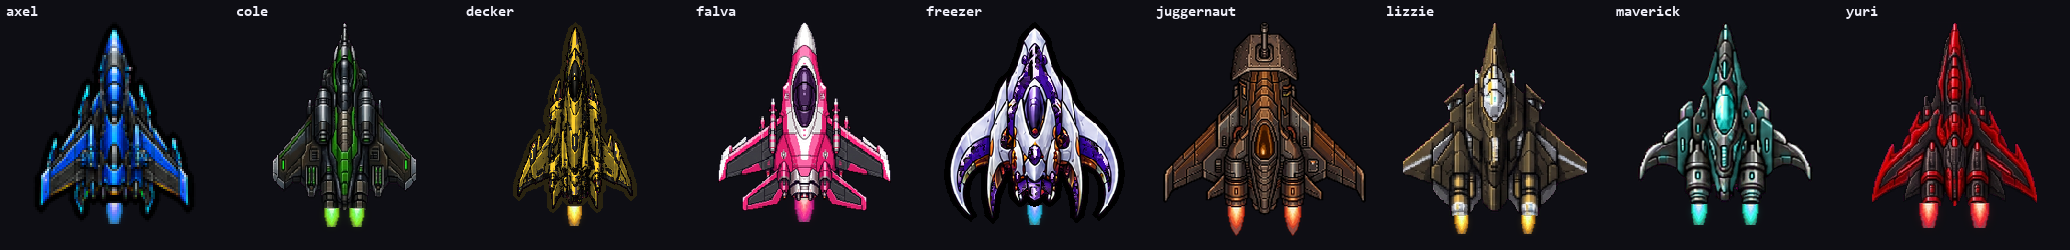
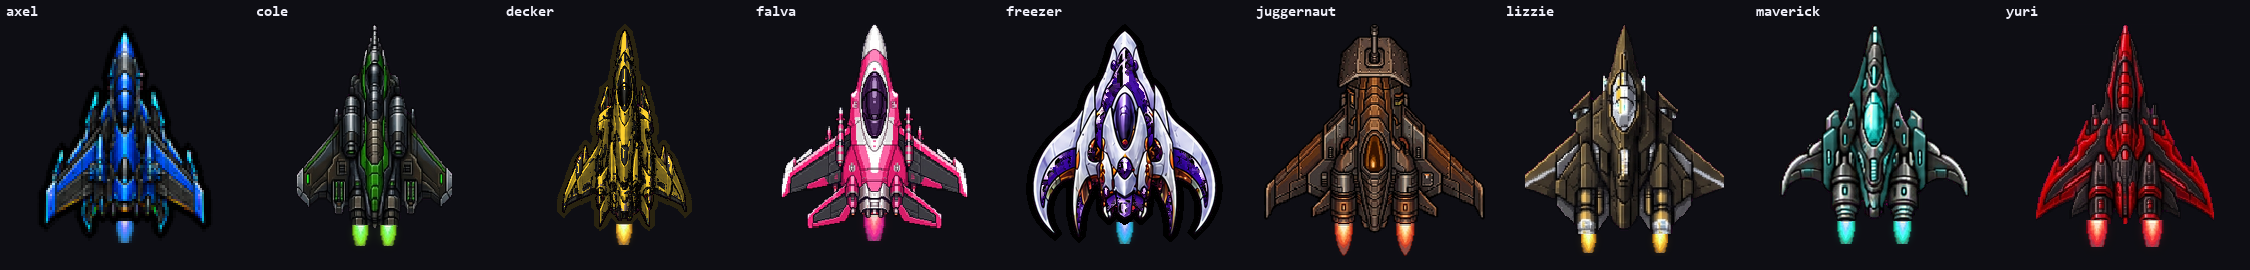
0906u: lizzie/yuri thruster nudge, and the purple spill one pixel inside the edge
Mike: "lizzie, move the left thruster to the left to get it centered a lil more, same with
the right. yuri - move the left to the right a little more, move the right to the left a
little more."

Checked before applying, because a fudge that hides a real bug is worth catching: the bell
BODIES measure at +/-0.185..0.194 for lizzie and +/-0.138..0.145 for yuri across three row
bands above the mouth — exactly where the flames already sat — and the flame template is
centred in its own box to within 0.24 px. So neither was a placement defect; he is judging
against the visible bell MOUTH rather than the housing, and the art is his. Stored as
MOUNT_NUDGE_PX in ink pixels, divided by each frame's own hull width so banked frames get
the same visual shift. lizzie +3 px outward, yuri -3 px inward.

PURPLE, PART TWO. 0906t only converts pixels that TOUCH transparency, and the worst dots sit
one pixel in, embedded in the black edge with neighbours on all four sides — 10,884 of them
survived. They are vivid and alone in their own hue, and that aloneness is exactly what makes
them safe to convert on a purple ship: Freezer's violet and Falva's pink pixels always have
companions of their own hue. 15,750 converted; boundary now 91.3% dark.

Stopping at purple is deliberate. The same metric finds green, cyan and blue dots clustering
at the corners of the colour cube — a chroma-key signature — but Cole's hull IS green,
[…]

diff --git a/_BUILD_SOURCE/halo_to_black_0906t.py b/_BUILD_SOURCE/halo_to_black_0906t.py
@@ -116,6 +116,103 @@ def convert(cell):
     return len(hits)
 
 
+def hue_gap(a, b):
+    d = abs(a - b) % 1.0
+    return min(d, 1.0 - d) * 360.0
+
+
+def despeckle(cell):
+    """key SPILL on the silhouette: a saturated pixel whose hue matches almost none of its neighbours.
+
+    ⚠ THE MAGENTA RULE ONLY EVER CAUGHT A QUARTER OF THIS. Measured across all nine hulls, 18,697
+    boundary pixels are saturated AND unlike 75%+ of their own neighbours, and their hues cluster
+    at 120-135 deg (4,535), 240-255 (3,707), 300-315 (3,570) and 165-195 (2,644) - green, blue,
+    magenta and cyan, i.e. the CORNERS OF THE COLOUR CUBE. That is chroma-key spill, not paint, and
+    a magenta-only sweep leaves the green and cyan dots on every wing edge - which is what was
+    still speckling the hulls after 0906t.
+
+    ⚠ AND "UNLIKE ITS NEIGHBOURS" IS WHAT MAKES IT SAFE ON A SHIP THAT IS THAT COLOUR. Cole's hull
+    is green and Maverick's is teal; their green and teal pixels sit among other green and teal
+    pixels, so they never qualify. A hue LIST would have had to special-case both."""
+    px = cell.load()
+    w, h = cell.size
+    hits = []
+    for y in range(h):
+        for x in range(w):
+            p0 = px[x, y]
+            if p0[3] <= 16:
+                continue
+            h0, s0, v0 = colorsys.rgb_to_hsv(p0[0] / 255., p0[1] / 255., p0[2] / 255.)
+            if s0 < 0.30:
+                continue
+            nb = []
+            edge = False
+            for dx in (-1, 0, 1):
+                for dy in (-1, 0, 1):
+                    if dx == 0 and dy == 0:
+                        continue
+                    nx, ny = x + dx, y + dy
+                    if nx < 0 or ny < 0 or nx >= w or ny >= h or px[nx, ny][3] <= 16:
+                        edge = True
+                        continue
+                    q = colorsys.rgb_to_hsv(*[v / 255. for v in px[nx, ny][:3]])
+                    if q[1] >= 0.10:
+                        nb.append(q[0])
+            if not edge or len(nb) < 2:
+                continue
+            if sum(1 for q in nb if hue_gap(h0, q) > 55) >= len(nb) * 0.75:
+                hits.append((x, y))
+    for (x, y) in hits:
+        px[x, y] = (EDGE[0], EDGE[1], EDGE[2], px[x, y][3])
+    return len(hits)
+
+
+def depurple(cell):
+    """the purple SPILL DOTS the fringe pass cannot reach - vivid, and alone in their own hue.
+
+    ⚠ THE FRINGE PASS ONLY SEES PIXELS THAT TOUCH TRANSPARENCY, AND THE WORST DOTS DO NOT. They sit
+    one pixel inside, embedded in the black edge, so they have neighbours on all four sides and
+    never qualify as boundary. 10,884 of them survived 0906t across the nine hulls.
+
+    ⚠ AND THE COMPANION TEST IS WHAT MAKES THIS SAFE ON A PURPLE SHIP. Freezer's aircraft is violet
+    and Falva's is pink; their own hull pixels sit among other pixels of the same hue, so they have
+    companions and are never touched. A spill dot is alone in its hue by definition - that is what
+    makes it a dot. This is the same reasoning as the depth-decay test one pass up, applied
+    laterally instead of inward, and it means neither ship needs to be named.
+
+    ⚠ RESTRICTED TO PURPLE ON PURPOSE. The same measurement finds vivid green, cyan and blue dots
+    too, but Cole's hull IS green, Maverick's IS teal and Axel's IS blue, and at that point the
+    rule starts scoring real paint - juggernaut's copper highlights came back as 1,000 hits under
+    a hue-agnostic version. Mike asked for the purple; the rest is left alone rather than guessed."""
+    px = cell.load()
+    w, h = cell.size
+    hits = []
+    for y in range(h):
+        for x in range(w):
+            p0 = px[x, y]
+            if p0[3] <= 16:
+                continue
+            h0, s0, v0 = colorsys.rgb_to_hsv(p0[0] / 255., p0[1] / 255., p0[2] / 255.)
+            if s0 < 0.45 or not (283.0 <= h0 * 360.0 <= 325.0):
+                continue
+            same = 0
+            for dx in (-1, 0, 1):
+                for dy in (-1, 0, 1):
+                    if dx == 0 and dy == 0:
+                        continue
+                    nx, ny = x + dx, y + dy
+                    if nx < 0 or ny < 0 or nx >= w or ny >= h or px[nx, ny][3] <= 16:
+                        continue
+                    q = colorsys.rgb_to_hsv(*[v / 255. for v in px[nx, ny][:3]])
+                    if q[1] >= 0.30 and hue_gap(h0, q[0]) <= 40:
+                        same += 1
+            if same <= 1:
+                hits.append((x, y))
+    for (x, y) in hits:
+        px[x, y] = (EDGE[0], EDGE[1], EDGE[2], px[x, y][3])
+    return len(hits)
+
+
 def boundary_dark(cell):
     """what fraction of the outer boundary is dark - the thing the conversion is trying to fix"""
     px = cell.load()
@@ -158,7 +255,7 @@ def main():
             cell = A.crop((x, y, x + w, y + h))
             d, t = boundary_dark(cell)
             d_before += d; b_before += t
-            n = convert(cell)
+            n = convert(cell) + despeckle(cell) + depurple(cell)
             if n:
                 A.paste(cell, (x, y))
             pk = k[5:].split('_')[0]

diff --git a/_BUILD_SOURCE/bake_thrusters_0906q.py b/_BUILD_SOURCE/bake_thrusters_0906q.py
@@ -59,6 +59,16 @@ OVERLAY = {'cole', 'decker', 'yuri', 'maverick', 'lizzie'}
 # 10%"). His bells are the widest of the nine relative to his hull, so one global share of hull
 # width lands slightly over-scale on him alone.
 FLAME_SCALE = {'cole': 0.90}
+# ⚠ MIKE'S CALL, AND IT OVERRIDES A MEASUREMENT THAT SAYS THEY ARE ALREADY CENTRED (0906u).
+# "lizzie, move the left thruster to the left to get it centered a lil more, same with the right.
+#  yuri - move the left to the right a little more, move the right to the left a little more."
+# Checked first, because a nudge that papers over a real bug is worth catching: the bell bodies
+# measure at +/-0.185..0.194 for lizzie and +/-0.138..0.145 for yuri across three row bands above
+# the mouth - i.e. exactly where the flames already sit - and the flame template is centred in its
+# own box to within 0.24 px, so neither is a placement defect. He is looking at the visible bell
+# MOUTH rather than the housing, and the art is his. Stored in INK PIXELS and divided by each
+# frame's own hull width so a banked frame gets the same visual shift as the hull one.
+MOUNT_NUDGE_PX = {'lizzie': +3.0, 'yuri': -3.0}      # + spreads the pair, - closes it
 BORE_F = 0.86                              # flame width as a share of the nozzle's measured bore
 EMERGE = 0.92                              # the share of the flame that clears the nozzle
 GLOW_F = 0.28                              # glow blur as a fraction of the flame's own height
@@ -264,7 +274,7 @@ def tail_mounts(cell, n, band=0.28):
 FLAME_W_F = None                           # set from Juggernaut's own art at run time
 
 
-def nozzles(cell, ox, oy, n, fixed=None, band=0.34):
+def nozzles(cell, ox, oy, n, fixed=None, band=0.34, nudge=0.0):
     """each nozzle's CENTRE and MOUTH row, from the DEEPEST ink in the fuselage.
 
     ⚠ THE ENGINE BELL IS THE DEEPEST THING ON THE FUSELAGE, AND THAT IS THE ONLY SIGNAL THAT
@@ -319,6 +329,7 @@ def nozzles(cell, ox, oy, n, fixed=None, band=0.34):
     if L and R2:
         gl = max(L, key=len); gr = max(R2, key=len)
         m = ((mid - sum(gl) / float(len(gl))) + (sum(gr) / float(len(gr)) - mid)) / 2.0
+        m += nudge
         return [(ox + mid - m, mouth_of(gl)), (ox + mid + m, mouth_of(gr))]
     # ⚠ COLE'S TWO BELLS AND THE SPINE BETWEEN THEM ALL REACH THE SAME DEPTH, so they arrive as
     # ONE 51-wide group and there is no second group to pair with. Splitting it down the middle
@@ -327,7 +338,7 @@ def nozzles(cell, ox, oy, n, fixed=None, band=0.34):
     # groups DO separate (yuri 21/145, lizzie 25/222, maverick 21/187), so the two bells sit half
     # a bell width in from each END of the merged run, not a quarter of it from the centre.
     g = max(groups, key=len)
-    half = max(3.0, 0.12 * W / 2.0)
+    half = max(3.0, 0.12 * W / 2.0) - nudge * W
     return [(ox + min(g) + half, mouth_of(g)), (ox + max(g) - half, mouth_of(g))]
 
 

diff --git a/CLAUDE.md b/CLAUDE.md
@@ -507,6 +507,34 @@ signature of this damage and it is one line to check; the eye catches it only at
 recovered by a second pass over the lossy plate. Ship rects do not move when the atlas is APPENDED
 to, so the pre-swap backup still reads correctly at the same rectangles months later.
 
+## 0906u — a nudge that overrides a measurement, and where the halo cleanup STOPS
+
+⚠ **MIKE'S EYE OVERRODE A MEASUREMENT THAT SAID "ALREADY CENTRED", AND THE MEASUREMENT WAS CHECKED
+FIRST.** *"lizzie, move the left thruster to the left ... yuri - move the left to the right."* Before
+applying it: the bell BODIES measure at ±0.185…0.194 for lizzie and ±0.138…0.145 for yuri across
+three separate row bands above the mouth — exactly where the flames already sat — and the flame
+template is centred in its own box to within **0.24 px**, so neither was a placement defect. He is
+judging against the visible bell MOUTH rather than the housing, and the art is his call. Stored as
+`MOUNT_NUDGE_PX` in INK pixels and divided by each frame's own hull width, so a banked frame gets
+the same visual shift as the hull frame. **Check before you nudge — a fudge factor that papers over
+a real bug is the thing this file exists to prevent — then apply his call anyway.**
+
+⚠ **THE SPILL THE FRINGE PASS CANNOT SEE IS THE SPILL ONE PIXEL IN.** 0906t only converts pixels
+that TOUCH transparency, and the worst dots sit embedded in the black edge with neighbours on all
+four sides. 10,884 survived. They are vivid and **alone in their own hue**, which is what makes them
+dots — and that same aloneness is what makes them safe to convert on a purple ship, because
+Freezer's violet and Falva's pink pixels sit among others of their own hue and always have
+companions. Same reasoning as the depth-decay test one pass up, applied laterally.
+
+⚠ **AND THE CLEANUP STOPS AT PURPLE, DELIBERATELY.** The same metric finds vivid green, cyan and
+blue dots too — 18,697 hue-outliers clustering at 120-135°, 165-195°, 240-255° and 300-315°, the
+corners of the colour cube, which is a chroma-key signature. But **Cole's hull IS green, Maverick's
+IS teal and Axel's IS blue**, and a hue-agnostic version scored **1,000 hits on Juggernaut, whose
+copper highlights are paint**; relaxing the neighbour test to catch dots in a black edge took the
+total to **69,995**, which is eating airframes. Mike asked for the purple. The rest is left alone
+and recorded rather than guessed at — **a cleanup that cannot tell dirt from paint should stop at
+the part where it can.**
+
 ## 0906t — the purple halo, and why a flame with one hue is not a flame
 
 ⚠ **SETTING THE HUE FLATTENS A FLAME; ROTATING IT DOES NOT.** Mike: *"the animation should be as
